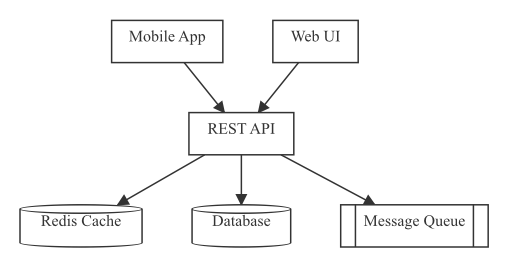
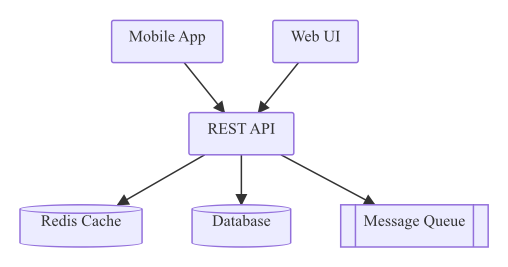
flowchart: visual parity polish — lavender theme, rounded corners, softer curves (#73)
* flowchart: visual parity polish — lavender theme, rounded corners, softer curves

Three small changes to bring the flowchart renderer closer to mermaid-cli's
default look:

- DefaultTheme NodeFill/NodeStroke now lavender/dark-purple (#ECECFF/#9370DB)
  matching mmdc's "default" palette. The config-driven theme mapping in
  pkg/output/svg now sources NodeFill from tc.Secondary so themed renders
  pick up the lighter background tone too.
- Default rectangles get RX=RY=2 so corners aren't sharply 90°.
- Edge label backdrops use the theme's Background color (chip-style) and
  RX=RY=3 instead of hardcoded white, so they read cleanly against any
  palette.
- Catmull-Rom tension dropped from 0.5 to 0.3; the higher value produced
  exaggerated swoops where dagre dummy-node waypoints sat just off the
  straight-line path.

Goldens and examples regenerated to match.

* flowchart: tighten review comments on rect rounding & label backdrop

Trim the narrative bits added in 6eff35b — keep the load-bearing
"why" (theme background avoids dark-theme white holes; RX:2 is the
mmdc-default rectangle distinct from RoundedRectangle) and drop the
editorial framing.

---------

diff --git a/pkg/renderer/flowchart/edges_test.go b/pkg/renderer/flowchart/edges_test.go
@@ -230,15 +230,17 @@ func TestRenderEdgeLabelBackgroundRect(t *testing.T) {
 		Points:   []layout.Point{{X: 0, Y: 0}, {X: 100, Y: 0}},
 		LabelPos: layout.Point{X: 50, Y: 0},
 	}
-	elems := renderEdge(e, el, 0, DefaultTheme(), 16, ruler, nil, graph.EdgeID{})
+	th := DefaultTheme()
+	elems := renderEdge(e, el, 0, th, 16, ruler, nil, graph.EdgeID{})
 	hasBgRect := false
+	wantFill := "fill:" + th.Background
 	for _, elem := range elems {
-		if r, ok := elem.(*Rect); ok && strings.Contains(r.Style, "fill:white") {
+		if r, ok := elem.(*Rect); ok && strings.Contains(r.Style, wantFill) {
 			hasBgRect = true
 		}
 	}
 	if !hasBgRect {
-		t.Error("edge label should have a white background rect")
+		t.Errorf("edge label should have a background rect with %q", wantFill)
 	}
 }
 
@@ -254,15 +256,17 @@ func TestRenderEdgeLabelBackgroundRectWithRuler(t *testing.T) {
 		Points:   []layout.Point{{X: 0, Y: 0}, {X: 200, Y: 0}},
 		LabelPos: layout.Point{X: 100, Y: 0},
 	}
-	elems := renderEdge(e, el, 0, DefaultTheme(), 16, ruler, nil, graph.EdgeID{})
+	th := DefaultTheme()
+	elems := renderEdge(e, el, 0, th, 16, ruler, nil, graph.EdgeID{})
 	var bgRect *Rect
+	wantFill := "fill:" + th.Background
 	for _, elem := range elems {
-		if r, ok := elem.(*Rect); ok && strings.Contains(r.Style, "fill:white") {
+		if r, ok := elem.(*Rect); ok && strings.Contains(r.Style, wantFill) {
 			bgRect = r
 		}
 	}
 	if bgRect == nil {
-		t.Fatal("edge label should have a white background rect")
+		t.Fatalf("edge label should have a background rect with %q", wantFill)
 	}
 	if bgRect.Width <= 40 {
 		t.Errorf("long label rect width should exceed fallback 40, got %.2f", bgRect.Width)

diff --git a/pkg/renderer/flowchart/edges.go b/pkg/renderer/flowchart/edges.go
@@ -184,10 +184,13 @@ func renderEdge(e diagram.Edge, el layout.EdgeLayout, pad float64, th Theme, fon
 
 		labelW, labelH := measureLabel(ruler, e.Label, fontSize)
 		const labelPad = 4.0
+		// Backdrop fill follows the theme background so labels stay
+		// readable on dark themes (a hardcoded white would punch holes).
 		elems = append(elems, &Rect{
 			X: svgFloat(lx - labelW/2 - labelPad), Y: svgFloat(ly - labelH/2 - labelPad),
 			Width: svgFloat(labelW + 2*labelPad), Height: svgFloat(labelH + 2*labelPad),
-			Style: "fill:white;stroke:none",
+			RX: 3, RY: 3,
+			Style: fmt.Sprintf("fill:%s;stroke:none", th.Background),
 		})
 		elems = append(elems, &Text{
 			X: svgFloat(lx), Y: svgFloat(ly),
@@ -229,7 +232,10 @@ func buildCurvePath(pts []layout.Point) string {
 	}
 	d := fmt.Sprintf("M%.2f,%.2f", pts[0].X, pts[0].Y)
 
-	tension := 0.5
+	// Catmull-Rom tension. 0.5 gave noticeably exaggerated swoops
+	// when dummy-node waypoints sat off the straight-line path; 0.3
+	// produces a softer, more mmdc-like curve.
+	tension := 0.3
 	for i := 0; i < len(pts)-1; i++ {
 		p0 := pts[max(i-1, 0)]
 		p1 := pts[i]

diff --git a/pkg/renderer/flowchart/nodes.go b/pkg/renderer/flowchart/nodes.go
@@ -30,8 +30,10 @@ func renderNode(n diagram.Node, nl layout.NodeLayout, pad float64, th Theme, fon
 
 	switch n.Shape {
 	case diagram.NodeShapeRectangle:
+		// RX/RY 2 matches mermaid-cli's default rectangle (a slight
+		// rounding, distinct from NodeShapeRoundedRectangle below).
 		elems = append(elems, &Rect{
-			X: svgFloat(cx - w/2), Y: svgFloat(cy - h/2), Width: svgFloat(w), Height: svgFloat(h), Style: shapeStyle,
+			X: svgFloat(cx - w/2), Y: svgFloat(cy - h/2), Width: svgFloat(w), Height: svgFloat(h), RX: 2, RY: 2, Style: shapeStyle,
 		})
 	case diagram.NodeShapeRoundedRectangle:
 		elems = append(elems, &Rect{

diff --git a/pkg/renderer/flowchart/theme.go b/pkg/renderer/flowchart/theme.go
@@ -31,10 +31,14 @@ type Theme struct {
 	Background     string
 }
 
+// DefaultTheme returns the Mermaid-classic flowchart palette: light
+// lavender fill with dark-purple stroke for nodes, matching mermaid-
+// cli's "default" theme. The config-driven mapping in
+// pkg/output/svg overrides these when an explicit theme is selected.
 func DefaultTheme() Theme {
 	return Theme{
-		NodeFill:       "#fff",
-		NodeStroke:     "#333",
+		NodeFill:       "#ECECFF",
+		NodeStroke:     "#9370DB",
 		NodeText:       "#333",
 		EdgeStroke:     "#333",
 		EdgeText:       "#333",

diff --git a/pkg/renderer/flowchart/theme_test.go b/pkg/renderer/flowchart/theme_test.go
@@ -4,11 +4,11 @@ import "testing"
 
 func TestDefaultTheme(t *testing.T) {
 	th := DefaultTheme()
-	if th.NodeFill != "#fff" {
-		t.Errorf("NodeFill = %q, want %q", th.NodeFill, "#fff")
+	if th.NodeFill != "#ECECFF" {
+		t.Errorf("NodeFill = %q, want %q", th.NodeFill, "#ECECFF")
 	}
-	if th.NodeStroke != "#333" {
-		t.Errorf("NodeStroke = %q, want %q", th.NodeStroke, "#333")
+	if th.NodeStroke != "#9370DB" {
+		t.Errorf("NodeStroke = %q, want %q", th.NodeStroke, "#9370DB")
 	}
 	if th.NodeText != "#333" {
 		t.Errorf("NodeText = %q, want %q", th.NodeText, "#333")

diff --git a/pkg/output/svg/svg.go b/pkg/output/svg/svg.go
@@ -606,7 +606,7 @@ func toClassTheme(tc *config.ThemeColors) classrenderer.Theme {
 
 func toFlowchartTheme(tc *config.ThemeColors) flowchartrenderer.Theme {
 	return flowchartrenderer.Theme{
-		NodeFill:       tc.Primary,
+		NodeFill:       tc.Secondary,
 		NodeStroke:     tc.LineColor,
 		NodeText:       tc.Text,
 		EdgeStroke:     tc.LineColor,
